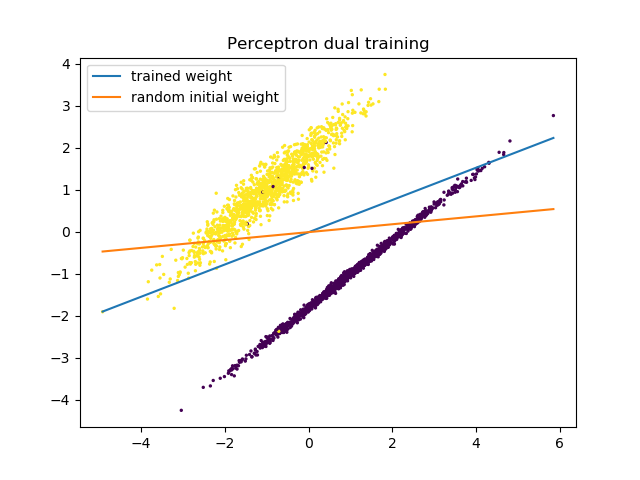
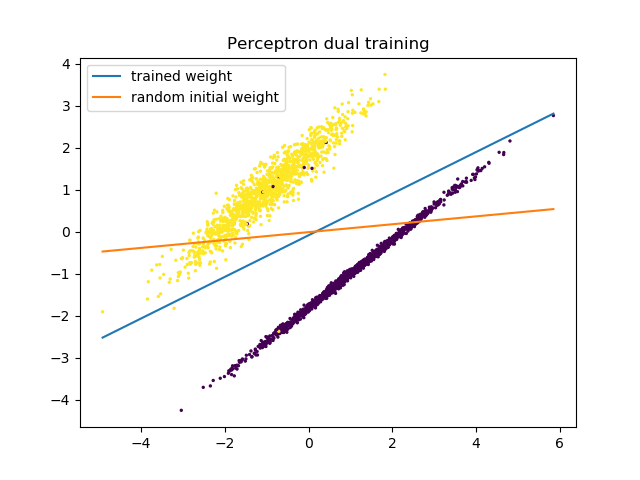
perceptron dual training little improvement

diff --git a/perceptron/perceptron_dual.py b/perceptron/perceptron_dual.py
@@ -69,8 +69,8 @@ class Perceptron(object):
 			train_loss = (d * M_mask).sum() / bs
 			M_idx = np.array(range(batch_s, batch_e))[M_mask]
 
-			self._alpha[M_idx] += self.learning_rate * M_mask.sum() / bs
-			self._b += self.learning_rate * (M_mask * y_batch).sum() / bs
+			self._alpha[M_idx] += self.learning_rate
+			self._b += self.learning_rate * (M_mask * y_batch).sum()
 
 			loss = -y_val * np.dot(X_val, (self._alpha[:, None] * y_train[:, None] * X_train).sum(axis=0)) + self._b
 			M_mask_val = loss > 0
